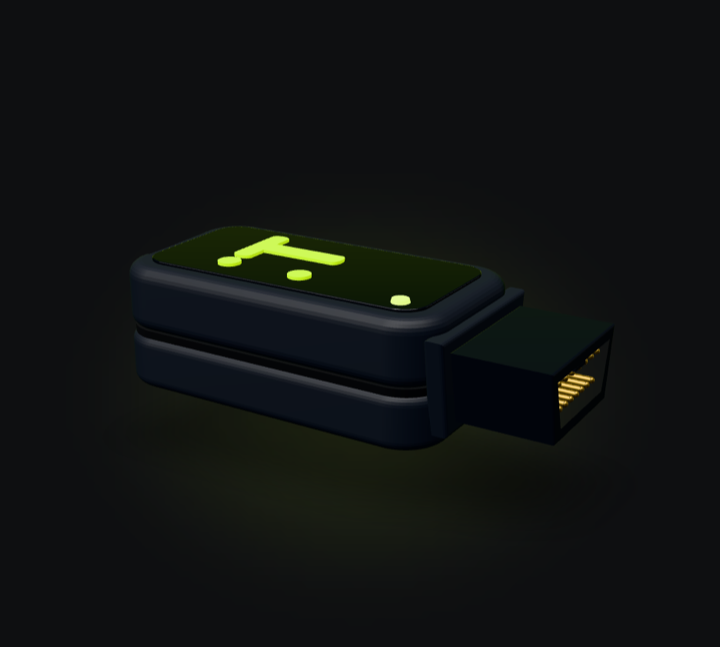
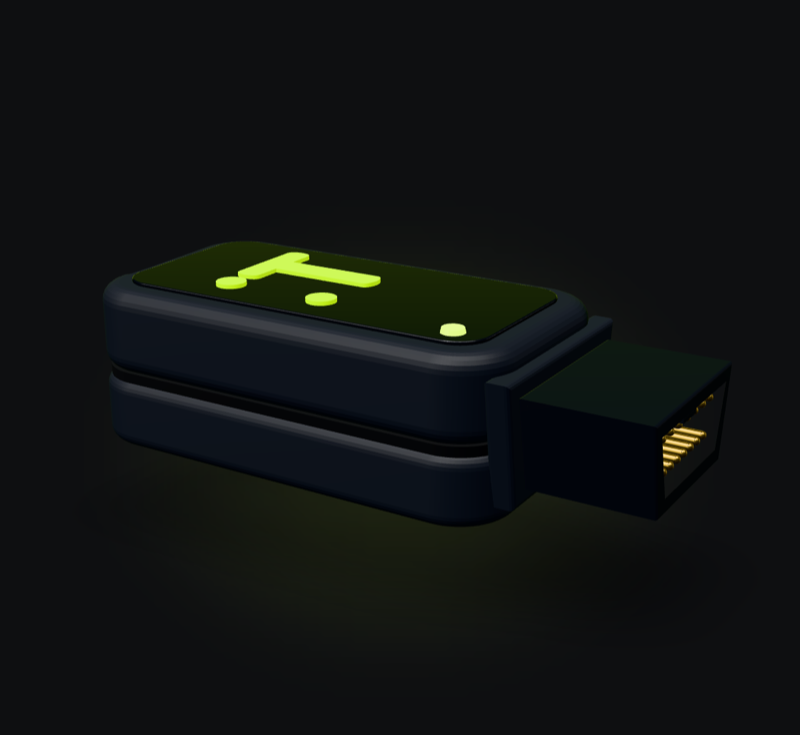
Accueil : boîtier 3D plus grand, rotation continue façon présentoir

diff --git a/src/ui/BoxScene.tsx b/src/ui/BoxScene.tsx
@@ -6,8 +6,9 @@
  *   1. le boîtier arrive en tournant et se pose ;
  *   2. la LED clignote comme pendant la connexion OBD, puis reste fixe ;
  *   3. le logo s'allume en vert, le feu vert du sapin.
- * Ensuite il flotte, suit la souris, pivote au défilement pour montrer sa
- * prise, et se laisse tourner à la main (il revient en place quand on lâche).
+ * Ensuite il tourne sur lui-même comme sur un présentoir, flotte, s'incline
+ * vers la souris, accélère au défilement, et se laisse tourner à la main (il
+ * revient dans l'axe quand on lâche).
  *
  * Éclairage : des panneaux de lumière déclarés ici (Lightformer), aucune image
  * HDR téléchargée. Le rendu s'arrête quand la scène sort de l'écran.
@@ -21,12 +22,14 @@ const MODEL = '/models/tarmac-box.glb';
 const POSTER = '/models/tarmac-box-poster.png';
 
 /** Le GLB est en mètres (62 mm hors tout) : on le ramène à ~2,5 unités. */
-const SCALE = 34;
+const SCALE = 46;
 /** Pose de repos : dessus, face avant et prise OBD visibles. */
 const REST = { x: 0.08, y: -0.55 };
 const INTRO_S = 1.6;
 const LOGO_GLOW = 0.55;
 const LED_GLOW = 1.2;
+/** Rotation du présentoir, en radians par seconde (un tour en ~14 s). */
+const SPIN = 0.45;
 
 const easeOut = (t: number) => 1 - Math.pow(1 - Math.min(1, Math.max(0, t)), 3);
 const smooth = (a: number, b: number, t: number) => {
@@ -41,6 +44,7 @@ function Box({ still }: { still: boolean }) {
   const { scene } = useGLTF(MODEL, false, true);
   const group = useRef<THREE.Group>(null);
   const scroll = useRef(0);
+  const spin = useRef(0);
 
   const parts = useMemo(() => {
     const emissive = (name: string) => {
@@ -58,16 +62,16 @@ function Box({ still }: { still: boolean }) {
     return () => window.removeEventListener('scroll', onScroll);
   }, []);
 
-  useFrame((state) => {
+  useFrame((state, delta) => {
     const g = group.current;
     if (!g) return;
     const t = still ? 10 : state.clock.elapsedTime;
     const p = easeOut(t / INTRO_S);
     const idle = still ? 0 : 1;
+    // Le présentoir démarre en douceur à la fin de l'intro ; le défilement l'accélère.
+    if (!still) spin.current += Math.min(delta, 0.05) * SPIN * smooth(INTRO_S * 0.8, INTRO_S + 0.8, t) * (1 + scroll.current * 3);
 
-    g.rotation.y = THREE.MathUtils.lerp(REST.y - 2.4, REST.y, p)
-      + idle * (Math.sin(t * 0.45) * 0.1 + state.pointer.x * 0.3)
-      + scroll.current * 1.1;
+    g.rotation.y = THREE.MathUtils.lerp(REST.y - 2.4, REST.y, p) + spin.current + idle * state.pointer.x * 0.25;
     g.rotation.x = THREE.MathUtils.lerp(0.6, REST.x, p) - idle * state.pointer.y * 0.1;
     g.position.y = THREE.MathUtils.lerp(-1.4, 0, p) + idle * Math.sin(t * 1.1) * 0.035;
 
@@ -81,7 +85,7 @@ function Box({ still }: { still: boolean }) {
 
   return (
     <group ref={group}>
-      <primitive object={scene} scale={SCALE} position={[0, -0.3, 0]} />
+      <primitive object={scene} scale={SCALE} position={[0, -0.4, 0]} />
     </group>
   );
 }
@@ -140,7 +144,7 @@ export default function BoxScene() {
             dpr={[1, 2]}
             frameloop={visible ? 'always' : 'never'}
             shadows
-            camera={{ position: [0, 1.5, 5.2], fov: 30 }}
+            camera={{ position: [0, 1.7, 6.2], fov: 30 }}
             gl={{ antialias: true, alpha: true, toneMapping: THREE.NeutralToneMapping }}
             onCreated={({ camera }) => camera.lookAt(0, 0.05, 0)}
           >
@@ -158,7 +162,7 @@ export default function BoxScene() {
               >
                 <Box still={still} />
               </PresentationControls>
-              <ContactShadows position={[0, -0.55, 0]} opacity={0.55} scale={6} blur={2.6} far={1.6} color="#000000" />
+              <ContactShadows position={[0, -0.75, 0]} opacity={0.6} scale={8} blur={2.6} far={1.6} color="#000000" />
               <Ready onReady={() => setReady(true)} />
             </Suspense>
           </Canvas>

diff --git a/src/styles.css b/src/styles.css
@@ -381,7 +381,7 @@ img, svg { display: block; }
 
 /* ─────────────────────────── Accueil ─────────────────────────── */
 
-.hero { padding-top: 72px; padding-bottom: 40px; display: grid; grid-template-columns: 1.1fr 0.9fr; gap: 40px; align-items: center; }
+.hero { padding-top: 72px; padding-bottom: 40px; display: grid; grid-template-columns: 1fr 1fr; gap: 40px; align-items: center; }
 .hero .lead { font-size: 19px; color: var(--text3); max-width: 560px; }
 .kicker { color: var(--ok); font-weight: 700; font-size: 13px; letter-spacing: 1.2px; text-transform: uppercase; }
 .phone {
@@ -512,9 +512,12 @@ table.tbl tr.click:hover td { background: #1b1d22; }
 .box-scene {
   position: relative;
   width: 100%;
-  max-width: 560px;
-  aspect-ratio: 1 / 0.9;
+  max-width: 640px;
+  aspect-ratio: 1 / 0.92;
   justify-self: center;
+  /* Déborde un peu de sa colonne : le boîtier est le sujet du hero. */
+  margin: -40px -40px -40px 0;
+  width: calc(100% + 40px);
   cursor: grab;
   touch-action: pan-y;
 }
@@ -535,6 +538,6 @@ table.tbl tr.click:hover td { background: #1b1d22; }
 .app-preview { display: grid; grid-template-columns: auto 1fr; gap: 40px; align-items: center; }
 
 @media (max-width: 860px) {
-  .box-scene { max-width: 420px; }
+  .box-scene { max-width: 520px; margin: -24px auto 0; width: 100%; }
   .app-preview { grid-template-columns: 1fr; }
 }
